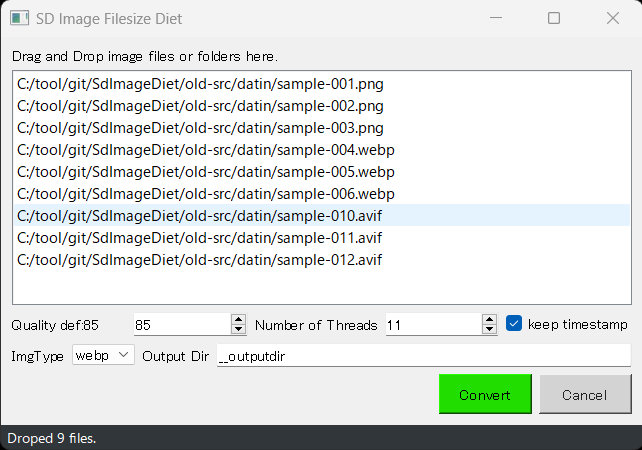
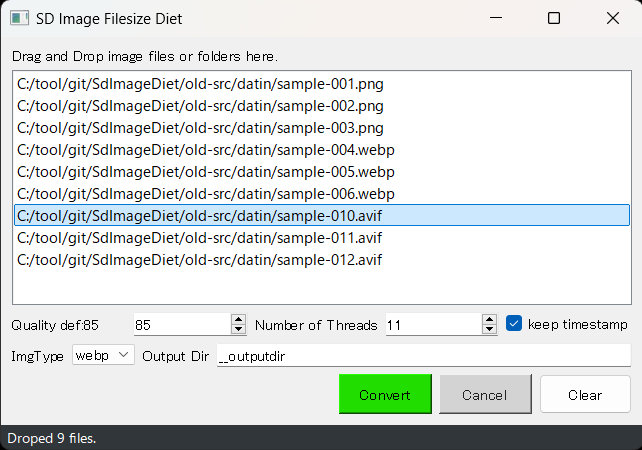
0.1.4 クリアボタンを追加

diff --git a/pvsubfunc.py b/pvsubfunc.py
@@ -173,40 +173,3 @@ print(result)
 #結果
 ['content1', 'content2']
 """
-
-#JPG画像ファイルからコメントを取得
-def get_jpg_comment(file_path):
-    try:
-        # 画像を開く
-        img = Image.open(file_path)
-        # Exifデータを取得
-        exif_data = img._getexif()
-
-        if exif_data is None:
-            return None
-
-        # タグ名でアクセス可能な形式に変換
-        exif = {TAGS.get(tag): value for tag, value in exif_data.items() if tag in TAGS}
-
-        # コメントに関連するタグをチェック
-        user_comment = exif.get("UserComment")
-        image_description = exif.get("ImageDescription")
-
-        # 優先的にUserCommentを返す
-        if user_comment:
-            return user_comment
-        elif image_description:
-            return image_description
-        else:
-            return None
-    except Exception as e:
-        print(f"エラーが発生しました: {e}")
-        return None
-
-#自作の変換ツールを通したjpgをImageライブラリで読み込むと不要なバイトなどがあるので修正する
-def remove_jpg_comment_Exifbyte(str):
-    resstr = str
-    resstr = resstr.replace("b'","")        #ファイルの先頭コード
-    resstr = resstr.replace("\\x00'","")    #ファイルの終端コード
-    resstr = resstr.replace("\\\\", "\\")   #jpg変換時の問題？
-    return resstr

diff --git a/SdImageDietGUI.py b/SdImageDietGUI.py
@@ -172,6 +172,10 @@ class MainWindow(QMainWindow):
         )
         self.cancelButton.setEnabled(False)  # 初期状態では無効化
         self.buttonLayout.addWidget(self.cancelButton)
+        # クリアボタン
+        self.clearButton = QPushButton('Clear')
+        self.clearButton.setFixedHeight(40)  # ボタンの高さを調整
+        self.buttonLayout.addWidget(self.clearButton)
         self.layout.addLayout(self.buttonLayout)
 
         # ステータスバーを追加
@@ -182,6 +186,7 @@ class MainWindow(QMainWindow):
         # ボタン押下処理
         self.convertButton.clicked.connect(self.start_conversion)
         self.cancelButton.clicked.connect(self.cancel_conversion)
+        self.clearButton.clicked.connect(self.clear_conversion)
 
         # 値変更時に変数を更新
         self.qualitySpinBox.valueChanged.connect(self.update_jpgquality_values)
@@ -236,6 +241,11 @@ class MainWindow(QMainWindow):
         self.statusBar.showMessage('Conversion cancelled.')
         self.convertButton.setEnabled(True)
         self.cancelButton.setEnabled(False)
+
+    # クリアボタン処理
+    def clear_conversion(self):
+        self.fileListWidget.clear()  # リストをクリア
+        self.statusBar.showMessage('Clear lists.')
 
     # 変換処理
     def convert_files(self, file_paths):
